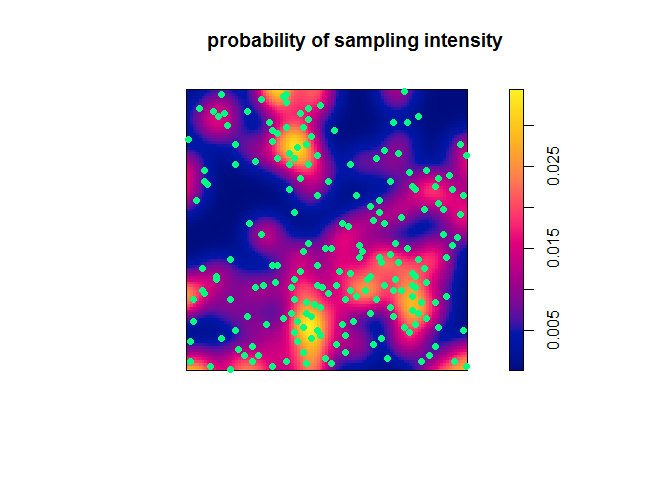
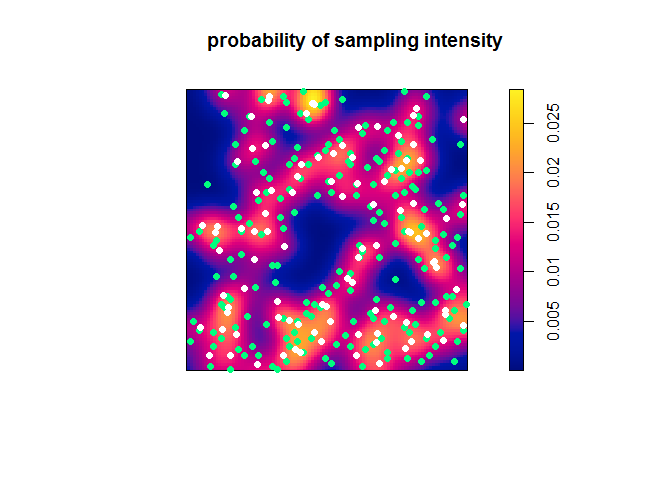
readme me update

Changed region(s): [[0.25, 0.1875, 0.7188, 0.7812], [0.8125, 0.2188, 0.8438, 0.5938], [0.8125, 0.625, 0.8438, 0.7188]]

diff --git a/README.md b/README.md
@@ -34,15 +34,12 @@ sa <- raster(nrows=100, ncols=100, xmn=-10, xmx=10,ymn=-10,ymx=10)
 sa[]<-rnorm(10000)
 projection(sa) <- "+proj=longlat +datum=WGS84 +ellps=WGS84 +towgs84=0,0,0"
 plot(sa)
-points(ks$x1,ks$x2,pch=16,add=TRUE)
+points(ks$x1,ks$x2,pch=16)
 ```
-
-    ## Warning in plot.xy(xy.coords(x, y), type = type, ...): "add" is not a
-    ## graphical parameter
 
 ![](readme_files/figure-markdown_github/unnamed-chunk-1-1.png)
 
-How many qausiRandom background points do we need?
+How many qausiRandom background points do we need? Let start with 200. The function will plot the underlying probability of sampling intensity, the presence points (white) amd the generated quasi-random background points.
 
 ``` r
 library(qrbp)
@@ -57,5 +54,9 @@ bkpts <- qrbp(n,dimension = 2,known.sites=ks,include.known.sites=TRUE,
     ## Number of samples considered (number of samples found): 2000(0)
 
     ## Finished
+
+``` r
+points(ks$x1,ks$x2,pch=16,col='white')
+```
 
 ![](readme_files/figure-markdown_github/unnamed-chunk-2-1.png)
